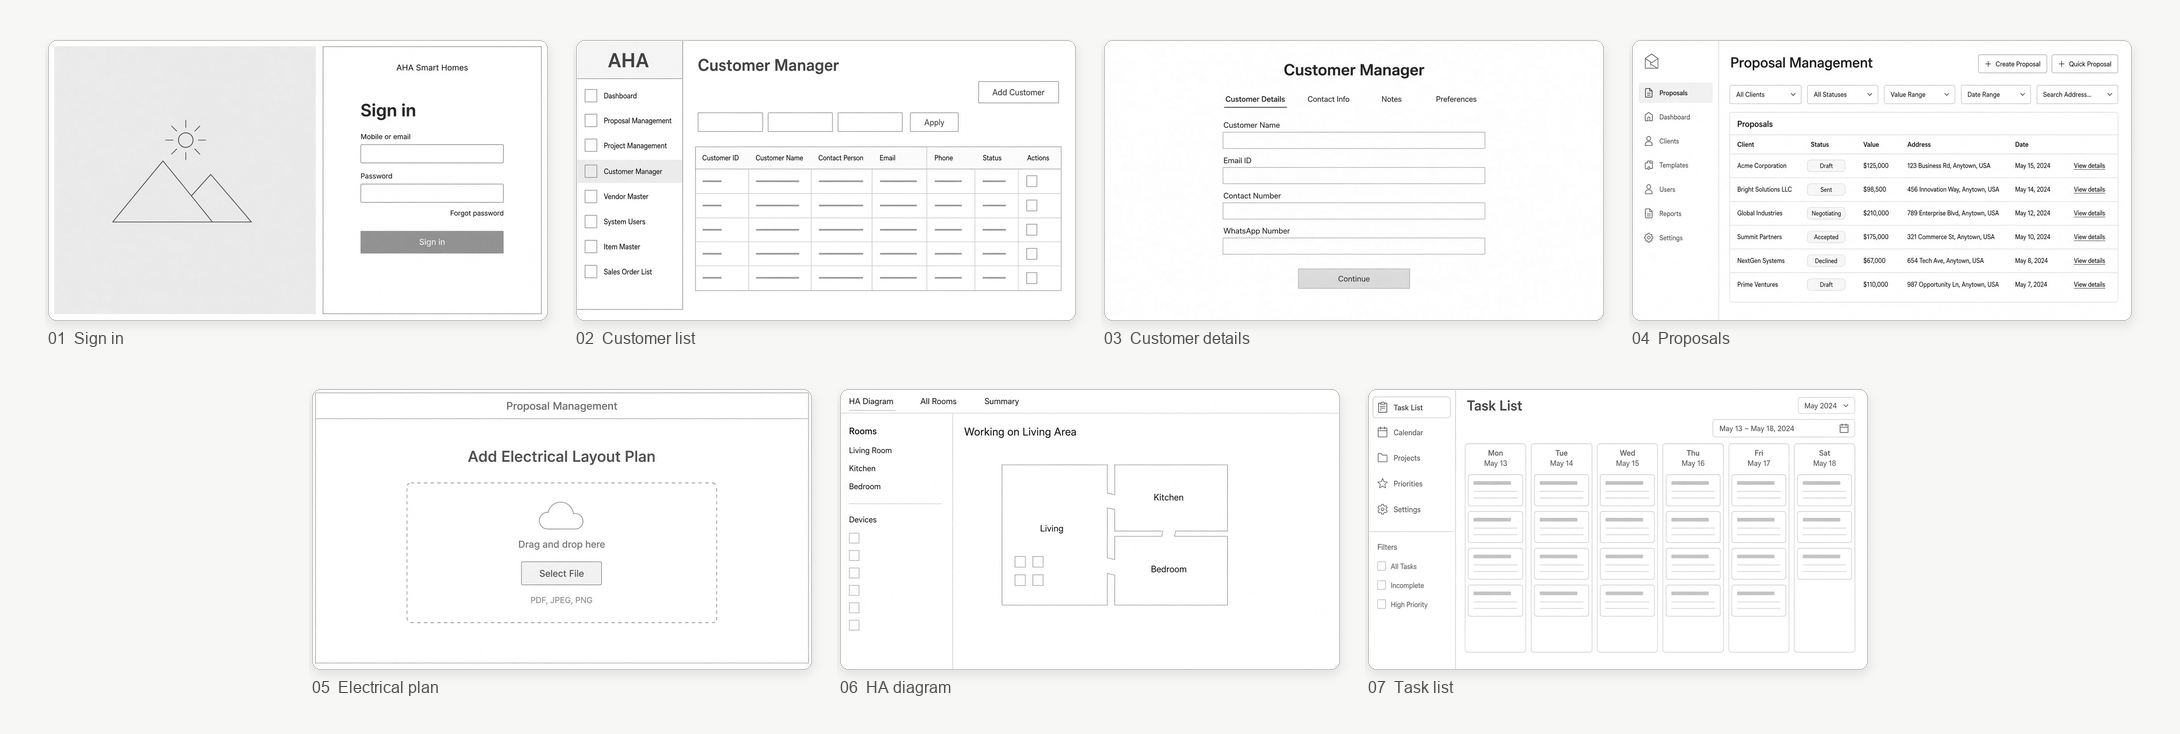
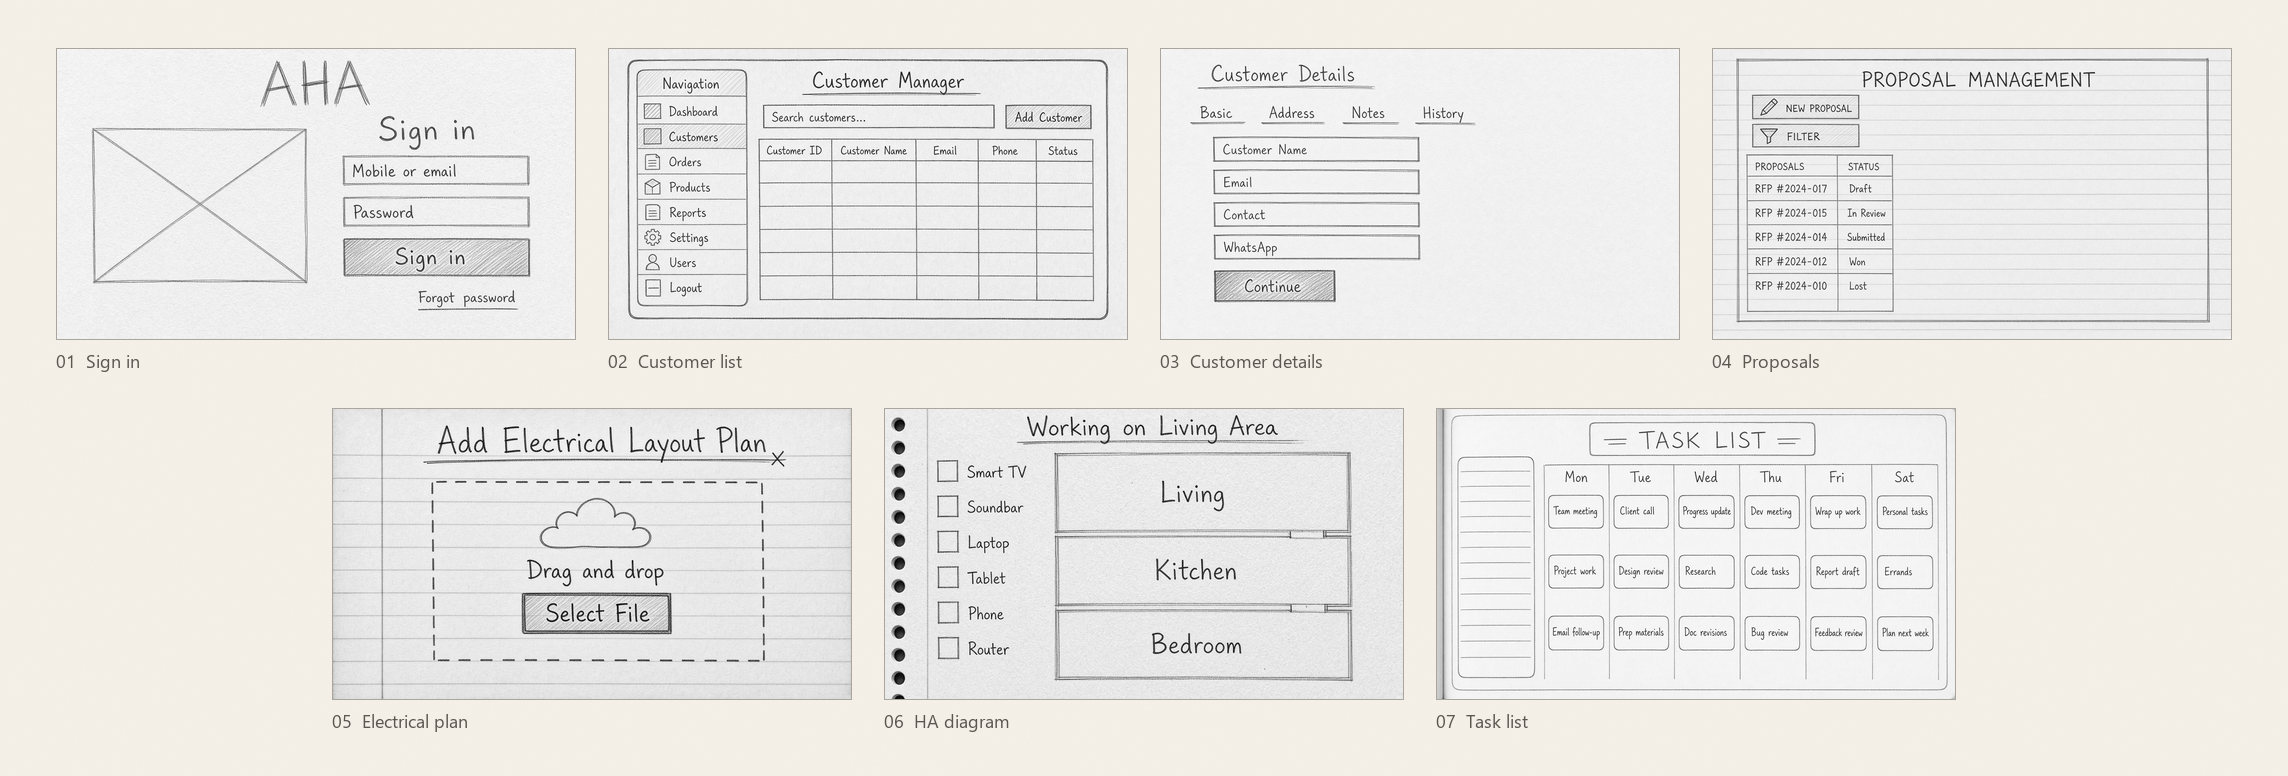
Swap AHA wireframes to pencil sketches and match the case stats to the three pointers.

diff --git a/src/CaseStudyAhaSaas.tsx b/src/CaseStudyAhaSaas.tsx
@@ -12,8 +12,9 @@ const facts = [
 ];
 
 const outcomes = [
-  { value: "50%", label: "Less operational work" },
-  { value: "4+", label: "Hours saved per team" },
+  { value: "50%", label: "Faster operations" },
+  { value: "4+ hours", label: "Saved per team (approx)" },
+  { value: "Real Time", label: "Visibility" },
 ];
 
 const preSteps = [
@@ -185,7 +186,7 @@ const impacts = [
   },
   {
     icon: "bolt",
-    title: "50% less operational work",
+    title: "50% faster operations",
     copy: "Less rebuilding the job from Excel, CRM, and chat. Teams got 4+ hours back.",
   },
   {
@@ -369,7 +370,7 @@ export function CaseStudyAhaSaas() {
         </div>
 
         <section className="cs-block cs-outcomes">
-          <div className="cs-stats cs-stats-2">
+          <div className="cs-stats cs-stats-3">
             {outcomes.map((item) => (
               <article key={item.label}>
                 <p>{item.value}</p>
@@ -543,14 +544,14 @@ export function CaseStudyAhaSaas() {
         <section className="cs-block">
           <Seq n="06">Wireframes</Seq>
           <p>
-            Seven lo-fi frames for the job: sign in, customer, proposal, the electrical plan, the HA diagram, and the
-            task list. Structure only, before colour.
+            Pencil sketches of the main screens: sign in, customer, proposal, the electrical plan, the HA diagram, and
+            the task list. Structure only, before colour.
           </p>
           <figure className="cs-shot">
-            <a href="/assets/cs-aha-wireframes.png?v=2" target="_blank" rel="noreferrer">
+            <a href="/assets/cs-aha-wireframes.png?v=7" target="_blank" rel="noreferrer">
               <img
-                src="/assets/cs-aha-wireframes.png?v=2"
-                alt="AHA SaaS wireframes: sign in, customer list, customer details, proposals, electrical plan, HA diagram, and task list"
+                src="/assets/cs-aha-wireframes.png?v=7"
+                alt="Pencil sketch wireframes of AHA SaaS: sign in, customer list, customer details, proposals, electrical plan, HA diagram, and task list"
               />
             </a>
           </figure>
@@ -598,10 +599,10 @@ export function CaseStudyAhaSaas() {
         <section className="cs-block">
           <Seq n="09">What changed</Seq>
           <p>
-            After launch, teams reported about <strong>50% less operational work</strong>, and{" "}
-            <strong>4+ hours</strong> back per team. That time used to go into rebuilding the job across tools.
+            After launch, teams reported about <strong>50% faster operations</strong>, and{" "}
+            <strong>4+ hours</strong> saved per team. They also got <strong>real-time visibility</strong> on the job.
           </p>
-          <div className="cs-stats cs-stats-2">
+          <div className="cs-stats cs-stats-3">
             {outcomes.map((item) => (
               <article key={item.label}>
                 <p>{item.value}</p>
